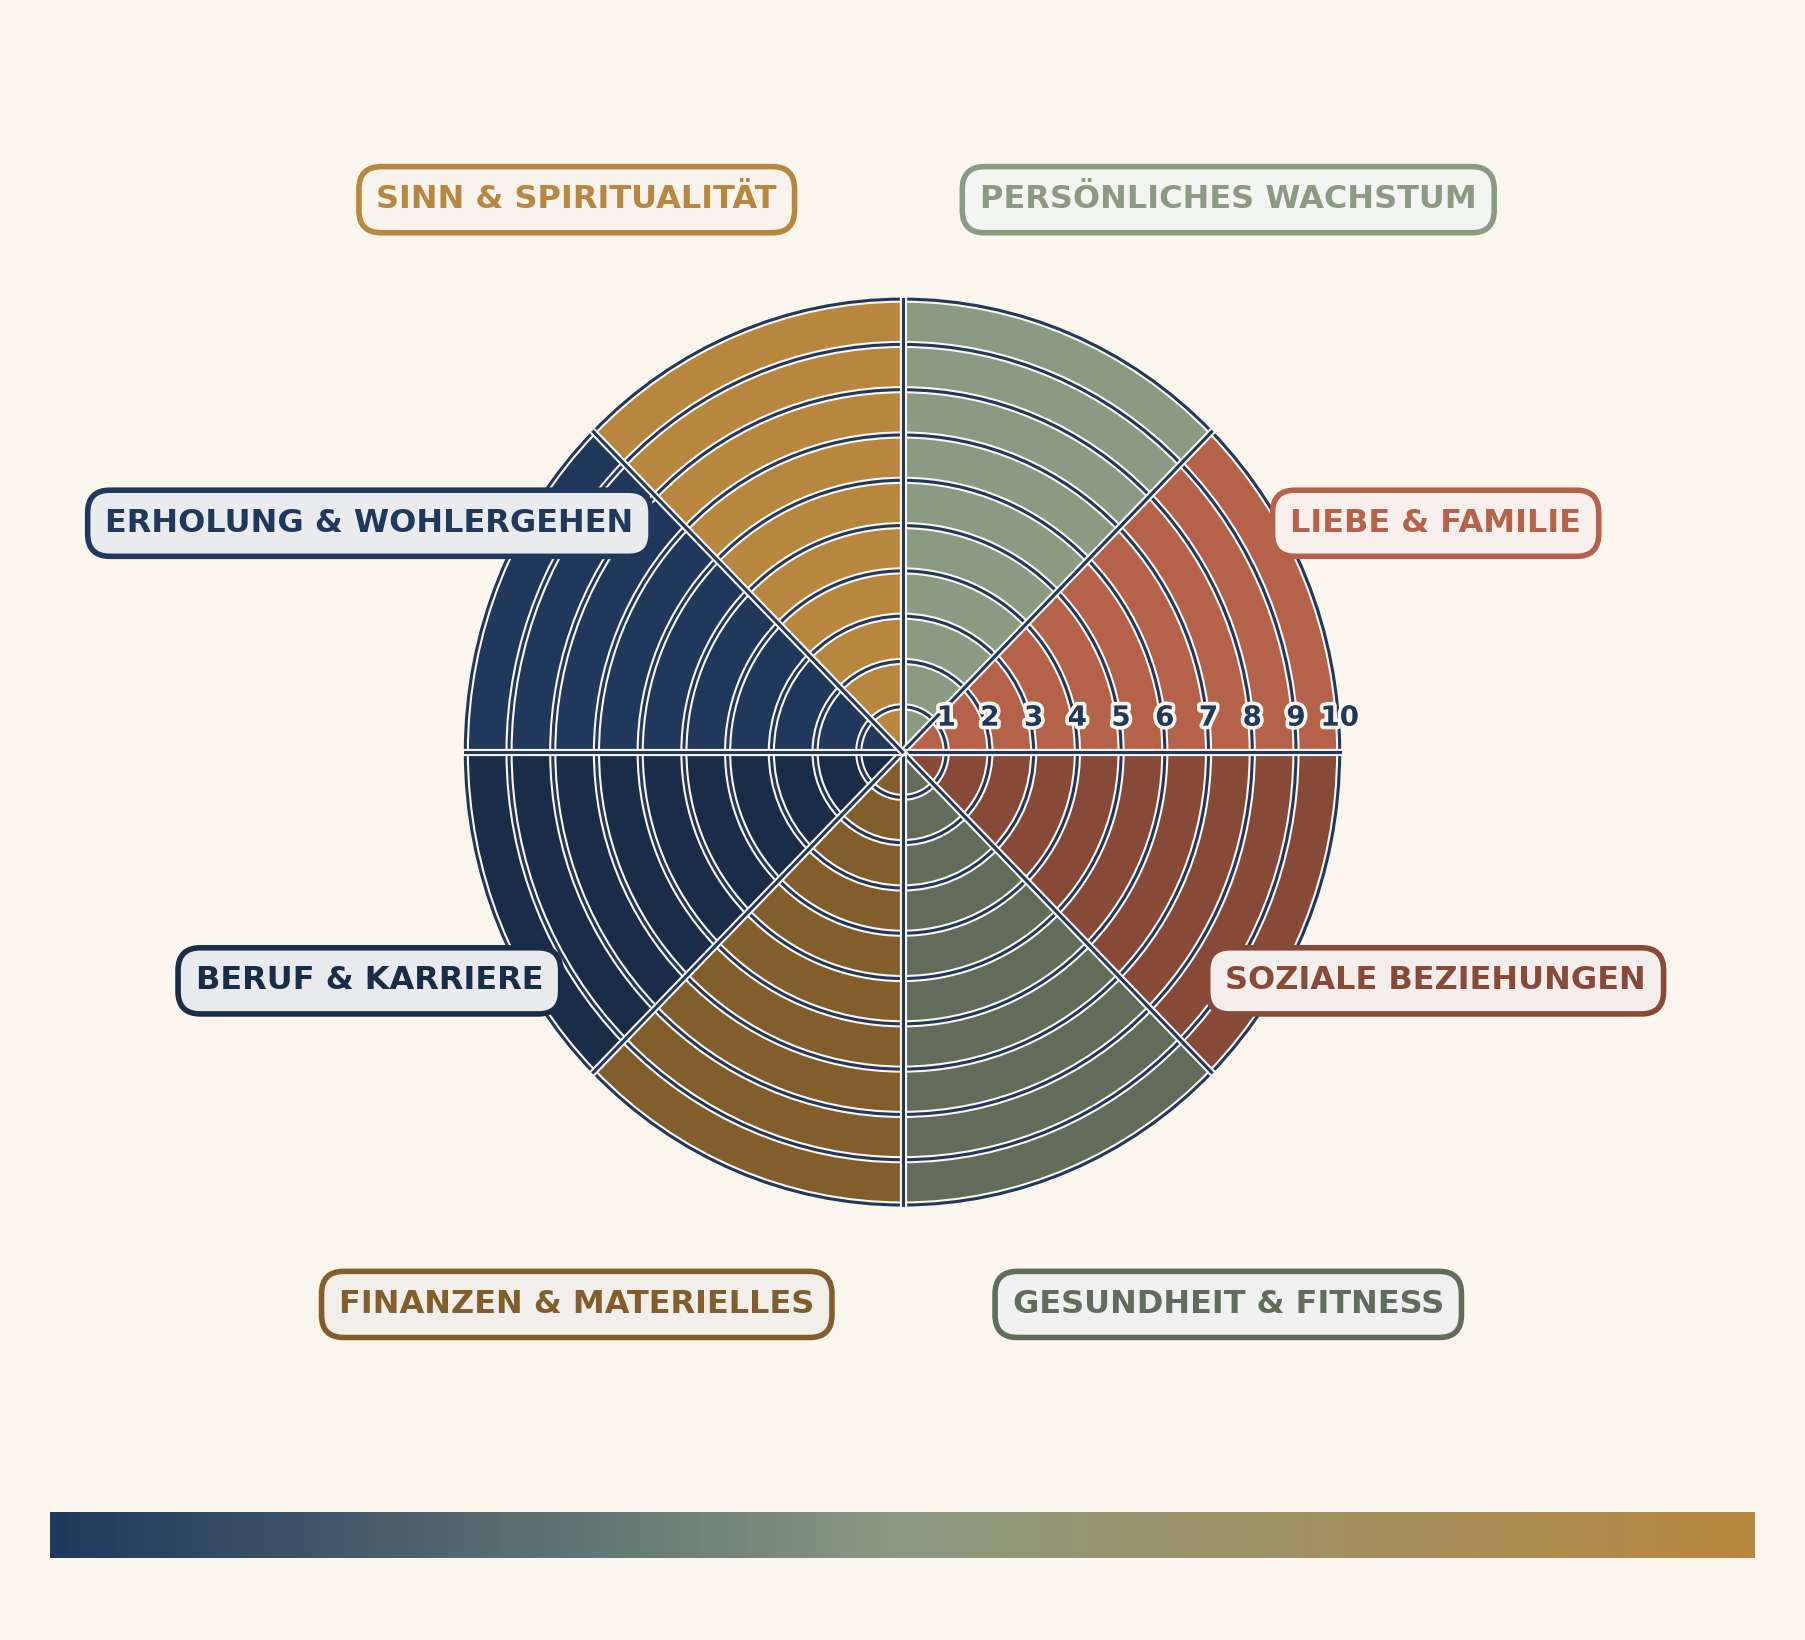
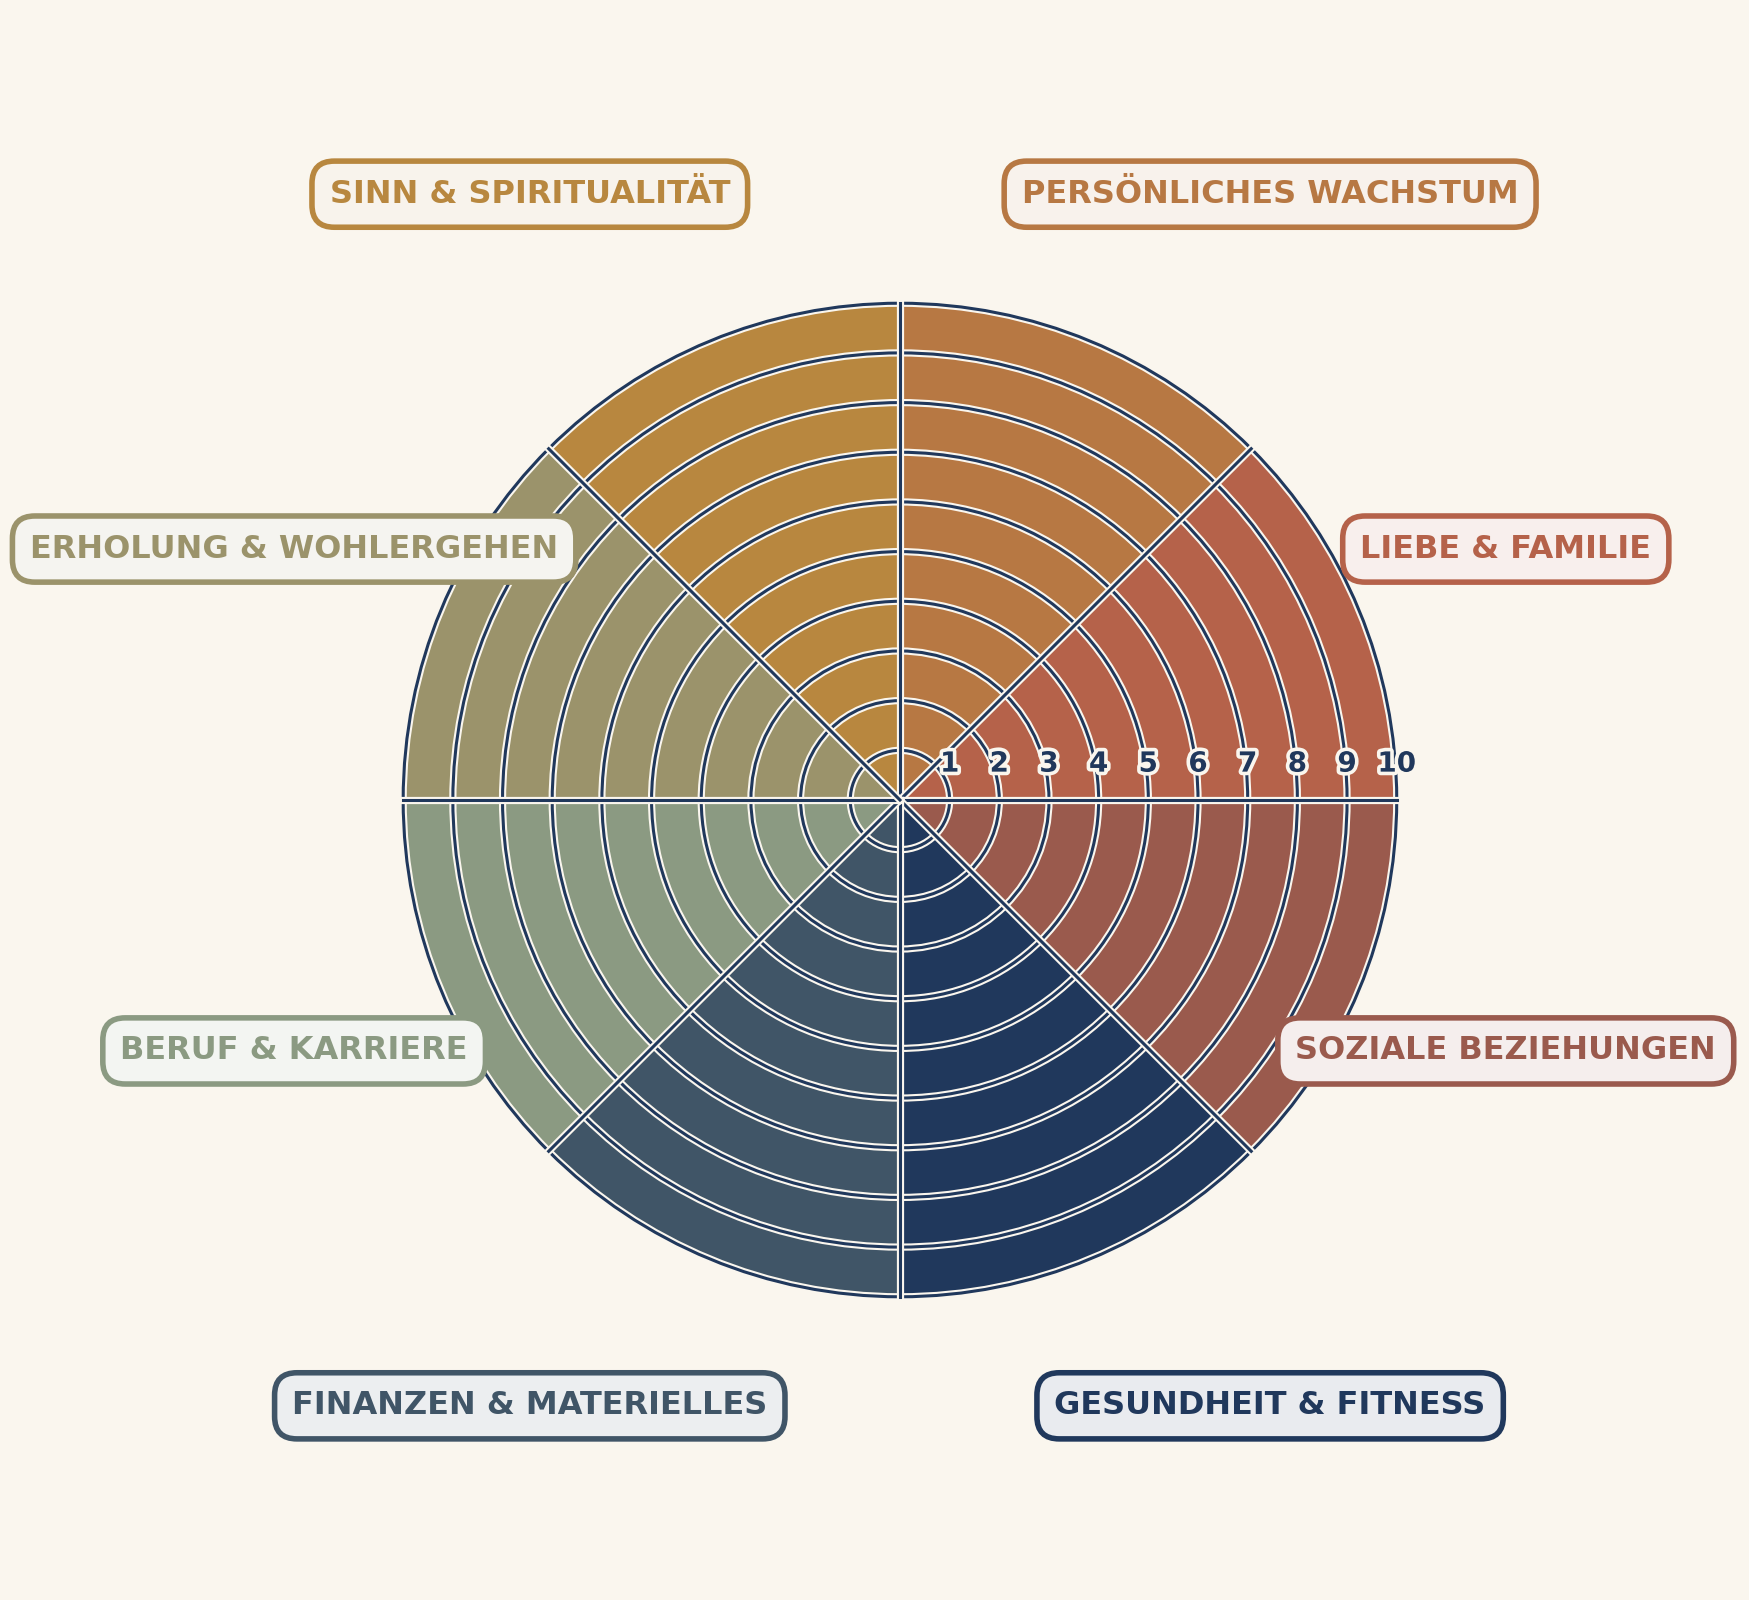
Coaching 05

diff --git a/src/assets/css/style.css b/src/assets/css/style.css
@@ -1,3 +1,10 @@
+/* Grundsätzliche 8-Farben-Palette (Variante 3 -- "Im Farbkreis verschoben"),
+   fuer Projekte/Grafiken mit Bedarf an 6-8 Farben (z.B. das Lebensrad).
+   Nur als Referenz dokumentiert, keine aktiven CSS-Variablen, da diese
+   Toene nicht im laufenden Website-Design verwendet werden:
+   Navy #20385C, Navy->Salbei #405567, Salbei #8B9A82, Salbei->Gold #9B936B,
+   Gold #B8873F, Gold->Terrakotta #B77843, Terrakotta #B5624A,
+   Terrakotta->Navy #9A5A4D. */
 :root{
   --ink:#22201c; --muted:#6b6a66;
   --navy:#20385c; --sage:#8b9a82; --gold:#b8873f; --terracotta:#B5624A; --bg:#faf6ee; --card:#fff;
